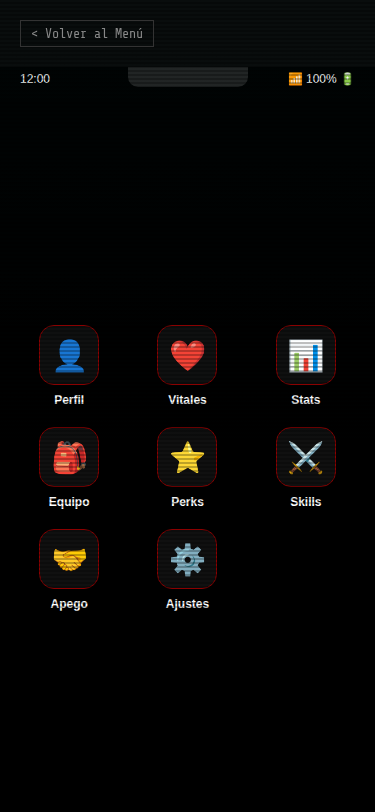
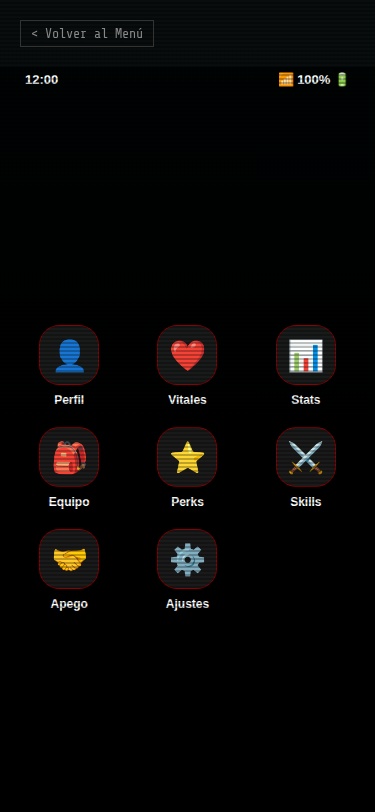
feat: modernize mobile UI with glassmorphism
- Update `.sheet-phone-statusbar` markup to use flexbox layout
- Apply glassmorphism (`backdrop-filter`) to app icons, headers, and navbar
- Convert app icon corners to squircles (`border-radius: 20px`)
- Change `.sheet-phone-navbar` into a floating translucent pill
- Add sticky positioning to `.sheet-app-header`
- Refine hover animations for app icons and navbar buttons

diff --git a/hoja_personaje.css b/hoja_personaje.css
@@ -4796,16 +4796,18 @@ input.sheet-part-link-state[value~="12"] ~ .sheet-part-view-bar .sheet-stagger-v
     display: flex;
     justify-content: space-between;
     align-items: center;
-    padding: 5px 20px;
-    font-size: 12px;
+    padding: 5px 25px;
+    font-size: 13px;
+    font-weight: 600;
     color: #fff;
-    background: rgba(0, 0, 0, 0.5);
+    background: transparent;
     position: absolute;
     top: 0;
     left: 0;
     right: 0;
     z-index: 100;
     pointer-events: none;
+    text-shadow: 0 1px 3px rgba(0,0,0,0.8);
 }
 
 .sheet-phone-statusbar::after {
@@ -4814,11 +4816,12 @@ input.sheet-part-link-state[value~="12"] ~ .sheet-part-view-bar .sheet-stagger-v
     top: 0;
     left: 50%;
     transform: translateX(-50%);
-    width: 120px;
-    height: 20px;
-    background: #222;
-    border-bottom-left-radius: 10px;
-    border-bottom-right-radius: 10px;
+    width: 100px;
+    height: 25px;
+    background: rgba(0, 0, 0, 0.8);
+    border-bottom-left-radius: 20px;
+    border-bottom-right-radius: 20px;
+    box-shadow: 0 2px 5px rgba(0,0,0,0.5);
 }
 
 /* Screen Area */
@@ -4877,25 +4880,31 @@ input.sheet-state-bg[value="bg3"] ~ * .sheet-phone-screen {
     cursor: pointer;
     font-family: inherit;
     text-transform: none;
-    transition: transform 0.2s;
+    transition: transform 0.3s cubic-bezier(0.2, 0.8, 0.2, 1);
 }
 
 .sheet-app-btn:hover {
-    transform: scale(1.1);
+    transform: scale(1.05) translateY(-2px);
+}
+
+.sheet-app-btn:hover .sheet-app-icon {
+    box-shadow: 0 8px 15px rgba(0,0,0,0.7), 0 0 10px rgba(255,255,255,0.2) inset;
 }
 
 .sheet-app-icon {
     width: 60px;
     height: 60px;
-    background: rgba(20, 20, 20, 0.8);
-    border-radius: 15px;
+    background: rgba(255, 255, 255, 0.1);
+    border-radius: 20px;
     display: flex;
     align-items: center;
     justify-content: center;
     font-size: 30px;
-    border: 1px solid rgba(255,255,255,0.1);
+    border: 1px solid rgba(255, 255, 255, 0.2);
     box-shadow: 0 4px 10px rgba(0,0,0,0.5);
-    backdrop-filter: blur(5px);
+    backdrop-filter: blur(10px);
+    -webkit-backdrop-filter: blur(10px);
+    transition: box-shadow 0.3s ease;
 }
 
 .sheet-app-btn span {
@@ -4912,10 +4921,14 @@ input.sheet-state-theme[value="gold"] ~ * .sheet-app-icon { border-color: var(--
 
 /* In-App Headers */
 .sheet-app-header {
-    background: rgba(0,0,0,0.8);
+    background: rgba(0,0,0,0.6);
     padding: 10px 15px;
     border-bottom: 2px solid var(--border-accent); /* Override via JS/CSS var if needed */
-    backdrop-filter: blur(10px);
+    backdrop-filter: blur(15px);
+    -webkit-backdrop-filter: blur(15px);
+    position: sticky;
+    top: 0;
+    z-index: 10;
 }
 
 .sheet-app-header h2 {
@@ -4950,15 +4963,21 @@ input.sheet-state-theme[value="gold"] ~ * .sheet-app-header { border-bottom-colo
 /* Navbar */
 .sheet-phone-navbar {
     position: absolute;
-    bottom: 0;
-    left: 0;
-    right: 0;
+    bottom: 10px;
+    left: 50%;
+    transform: translateX(-50%);
+    width: 90%;
     height: 50px;
-    background: #0a0a0a;
+    background: rgba(0, 0, 0, 0.6);
     display: flex;
     align-items: center;
     justify-content: center;
-    border-top: 1px solid #222;
+    border-radius: 30px;
+    backdrop-filter: blur(15px);
+    -webkit-backdrop-filter: blur(15px);
+    border: 1px solid rgba(255, 255, 255, 0.1);
+    box-shadow: 0 4px 15px rgba(0,0,0,0.5);
+    z-index: 20;
 }
 
 .sheet-home-btn {
@@ -4968,11 +4987,12 @@ input.sheet-state-theme[value="gold"] ~ * .sheet-app-header { border-bottom-colo
     font-size: 24px;
     cursor: pointer;
     opacity: 0.7;
-    transition: opacity 0.2s;
+    transition: opacity 0.2s, transform 0.2s;
 }
 
 .sheet-home-btn:hover {
     opacity: 1;
+    transform: scale(1.1);
 }
 
 /* Visibility Fix for New Structure */

diff --git a/hoja_personaje.html b/hoja_personaje.html
@@ -99,8 +99,8 @@
  <!-- Stats Tab Content -->
 
 <div class="sheet-phone-statusbar">
- <span class="sheet-phone-time">12:00</span>
- <span class="sheet-phone-icons">📶 100% 🔋</span>
+ <div class="sheet-statusbar-left">12:00</div>
+ <div class="sheet-statusbar-right">📶 100% 🔋</div>
 </div>
 <div class="sheet-phone-screen">
  <!-- Home Tab -->
